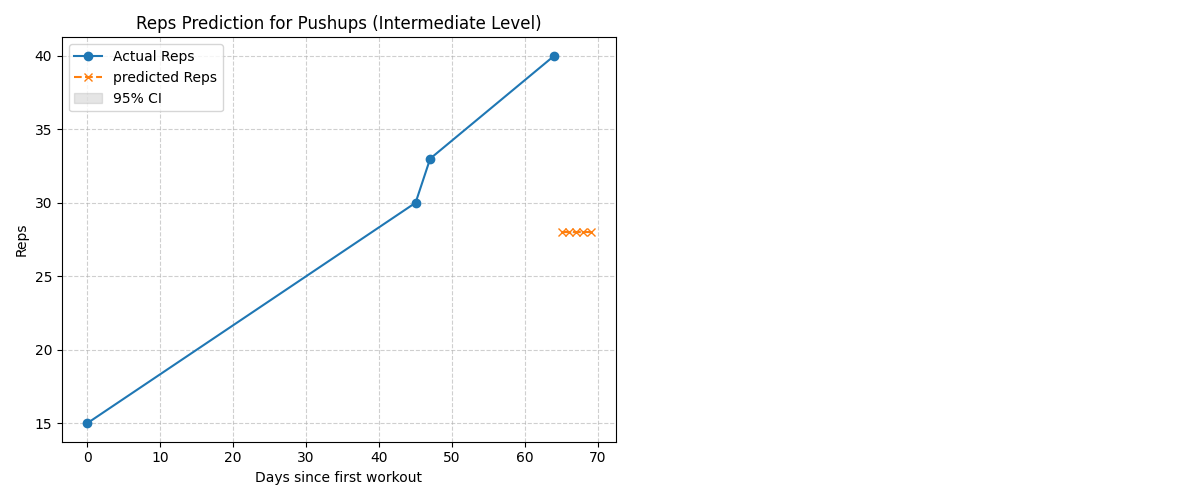
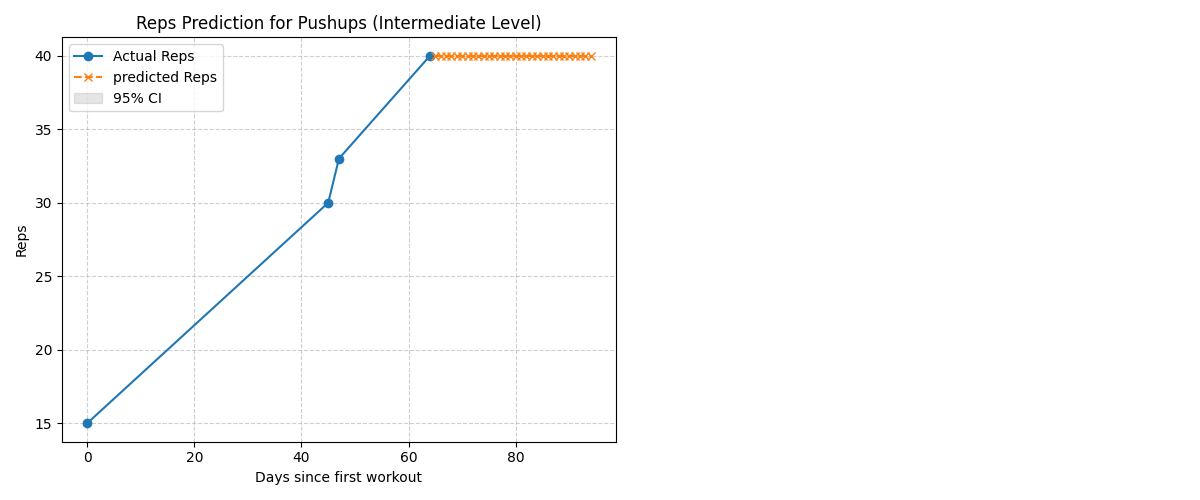
jgbjf

diff --git a/predictor.py b/predictor.py
@@ -77,61 +77,42 @@ def predict(coeffs, x):
 import numpy as np
 
 def predict_targets(dates, reps, weights, is_bodyweight=True, user_level="intermediate"):
-    # Convert dates to days since first workout
     days = np.array([(d - dates[0]).days for d in dates])
-    
-    # --- BODYWEIGHT BRANCH (pushups, situps, pullups) ---
+
     if is_bodyweight:
         last_reps = reps[-1]
+        # 🚨 Higher dynamic cap
+        base_max_reps = 300 if user_level == "intermediate" else 400
+        max_reps = max(base_max_reps, int(last_reps * 1.5))
 
-        # Dynamic max scaling
-        base_max_reps = 150 if user_level == "intermediate" else 200
-        max_reps = max(base_max_reps, int(last_reps * 1.2))
-
-        # Weighted cubic polynomial regression
-        weights_poly = np.linspace(1, 3, len(days))  # later workouts weighted more
+        weights_poly = np.linspace(1, 3, len(days))
         reps_coeffs = np.polyfit(days, reps, deg=3, w=weights_poly)
 
-        # Polynomial predictions
-        future_days = np.arange(days[-1] + 1, days[-1] + 31)  # next 30 days
+        future_days = np.arange(days[-1] + 1, days[-1] + 31)
         future_reps = np.array([np.polyval(reps_coeffs, d) for d in future_days], dtype=float)
 
-        # Clamp predictions to last reps
+        # Clamp + slope enforcement
         future_reps = np.maximum(future_reps, last_reps)
-
-        # Slope enforcement (monotonic growth)
         if len(reps) > 5:
             recent_slope = (reps[-1] - reps[-5]) / 5
         else:
             recent_slope = reps[-1] - reps[0]
-
         for i in range(1, len(future_reps)):
             if future_reps[i] < future_reps[i-1]:
                 future_reps[i] = future_reps[i-1] + recent_slope
-            future_reps[i] = max(future_reps[i], last_reps)
-
-        # Final clamp to dynamic max
         future_reps = np.clip(future_reps, last_reps, max_reps)
 
-        # Confidence interval based on weighted residuals
         residuals = reps - np.array([np.polyval(reps_coeffs, d) for d in days])
         reps_ci = 1.96 * np.std(residuals)
 
         return days, future_days, future_reps, None, reps_ci, None, user_level
 
-    # --- WEIGHTED BRANCH (bench press, squat, deadlift) ---
     else:
         last_reps, last_weights = reps[-1], weights[-1]
+        # 🚨 Higher dynamic caps
+        max_reps = max(300, int(last_reps * 1.5))
+        max_weights = max(200, int(last_weights * 1.5))
 
-        # Dynamic max scaling
-        if user_level == "intermediate":
-            max_reps, max_weights = 150, 70
-        elif user_level == "expert":
-            max_reps, max_weights = 200, 90
-        else:
-            max_reps, max_weights = 150, 70
-
-        # Polynomial regression for reps and weights
         reps_coeffs = np.polyfit(days, reps, deg=2)
         weights_coeffs = np.polyfit(days, weights, deg=2)
 
@@ -143,13 +124,12 @@ def predict_targets(dates, reps, weights, is_bodyweight=True, user_level="interm
         future_reps = np.clip(future_reps, last_reps, max_reps)
         future_weights = np.clip(future_weights, last_weights, max_weights)
 
-        # Confidence intervals
         reps_residuals = reps - np.array([np.polyval(reps_coeffs, d) for d in days])
         weights_residuals = weights - np.array([np.polyval(weights_coeffs, d) for d in days])
         reps_ci = 1.96 * np.std(reps_residuals)
         weights_ci = 1.96 * np.std(weights_residuals)
 
-        return days, future_days, future_reps, future_weights, reps_ci, weights_ci, user_level
+        return days, future_days, future_reps, future_weights, reps_ci, weights_ci, user_level, weights, reps_ci, weights_ci, user_level
 
 
 # actual vs  prediction plot
